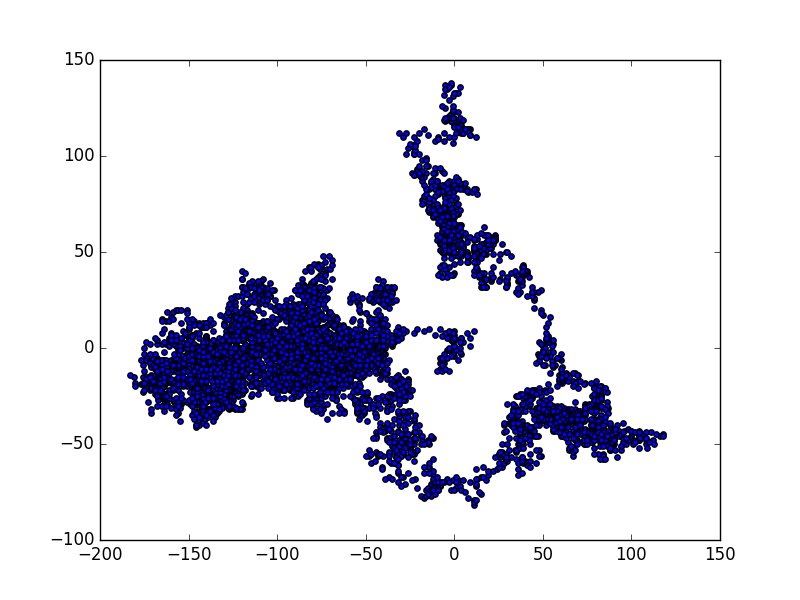
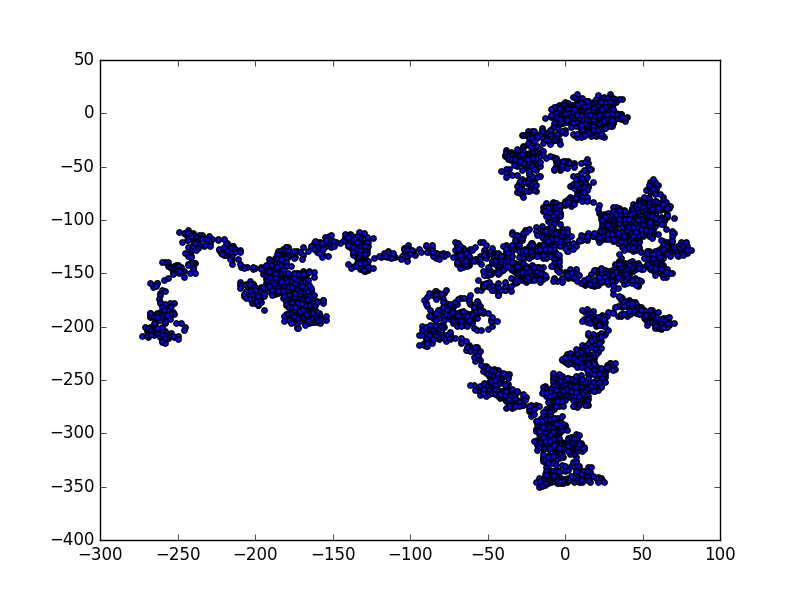
generate multiple random walks

diff --git a/rw_visual.py b/rw_visual.py
@@ -2,9 +2,15 @@ import matplotlib.pyplot as plt
 
 from random_walk import RandomWalk
 
-#make arandom walk and plt the points
-rw = RandomWalk()
-rw.fill_walk()
+#keep making random walks as long as the program is active
+while True:
+    #make arandom walk and plt the points
+    rw = RandomWalk()
+    rw.fill_walk()
 
-plt.scatter(rw.x_values, rw.y_values, s=15)
-plt.show()
+    plt.scatter(rw.x_values, rw.y_values, s=15)
+    plt.show()
+
+    keep_running = raw_input("Make another walk? (y/n): ")
+    if keep_running == 'n':
+        break
